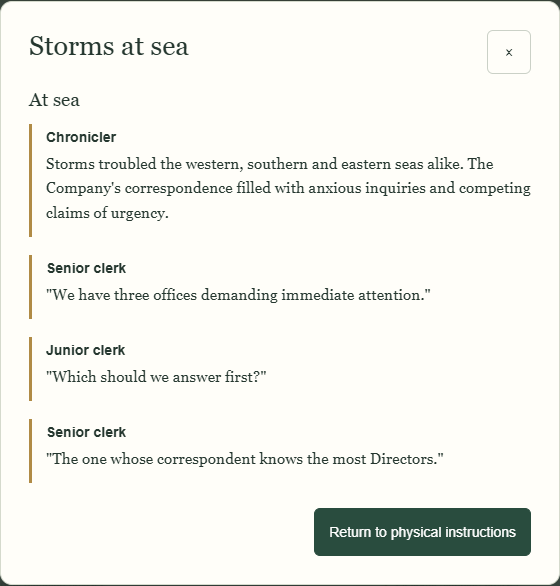
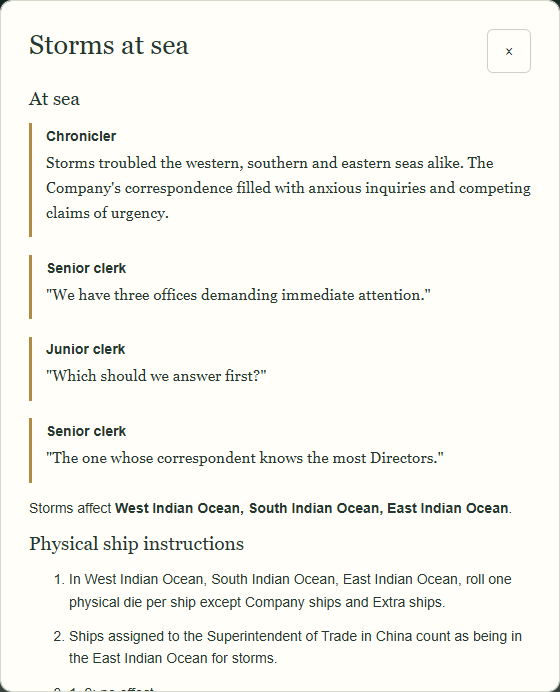
Document automatic 09E flows and verified resume behaviour

diff --git a/docs/narrative/collection09e-implementation.md b/docs/narrative/collection09e-implementation.md
@@ -10,7 +10,7 @@ Weather uses only the actual saved face. Tensions use its visible event count an
 
 F-09 requires Company control of every target and no Governor General law; no player officeholder/incumbency claim is made. F-03 and H-03 require an existing living regional ruler. These are contextual exclusions, not permanently withheld entries. Anonymous merchants, clerks and courtiers retain approved role labels and create no NPCs. No actual casualties, completed commerce or new biographies are inferred.
 
-## Presentation and persistence
+## Original presentation and persistence (superseded by the UX correction below)
 
 Weather and invasion scenes use optional **Read scene** buttons at the corresponding existing physical stage, opening one complete scrollable scene with **Return to physical instructions**. This preserves mandatory ship/defence reports and avoids another compulsory reading step. First-target invasion reading includes the announcement; later targets show only their current appraisal. The action review offers all selected invasion scenes, including Indian targets without a player defence prompt and France with no invasion. Tensions appear directly on the existing count-reveal page. Normal/quiet modes add no fictional pages; physical numbers and instructions retain their wording.
 
@@ -43,3 +43,17 @@ Implementation commit: `ba08a97735e47903eba6796d3844d9c0b157f066`. Documentation
 - **Navigation:** preserve a clear route between the automatically displayed scene and exact physical instructions, with **no extra read/acknowledgement button or redundant story-only confirmation**. The existing necessary physical completion/report input remains mandatory. Do not force story replay on reentry, reload, Back/Undo/Redo or returning from physical instructions: remember the local stage viewing state independently from the underlying selected scene, without altering the gameplay outcome or adding gameplay Undo frames.
 - **Pacing:** preserve one complete multi-speaker scene, not line-by-line popups. At the initial multi-target invasion beat, the announcement should not disappear behind the first target's strength reaction. Avoid two successive, unnecessary modal steps if existing one-page scene can combine the immediate announcement and current appraisal.
 - **Acceptance:** browser-test Narrative mode's automatic weather → ship instructions → tension reveal, calm-weather path, single/multi-target Foreign/France, no-target France, and saved-stage resume. Confirm Normal unchanged and no new click obligation. The correction is a focused UX task, not a rewrite of the already approved prose or authorization for character system work.
+
+
+## Automatic-scene correction delivered — 26 October 2026
+
+Implemented the approved correction from `06e903a`. The original optional-reading description above is historical and superseded. **No Read scene buttons remain.** Narrative scenes appear automatically as the first content on the existing complete scrollable resolution page, followed by physical instructions and the same mandatory report/control. This avoids a new narration-only Continue, acknowledgement or modal step. Weather therefore reads first, then the player scrolls naturally to the storm procedure and reports ship completion; calm retains its existing Continue. The already approved count/tensions page follows actual weather completion, never earlier.
+
+At the first invasion boundary, the announcement and current saved-force appraisal share the page before the existing defence report. Later targets show their new appraisal only; the announcement is not replayed. Where an Indian target needs no player defence, pending scenes appear automatically on the next existing physical-consequence/Elephant/review page. France's no-invasion N-01 is automatic on its existing review page, without a new step. No result is generated for the purpose of narration. Newly presented pages reset scroll to the start so earlier physical-page scrolling cannot hide the scene.
+
+Viewing position is separate from text selection: optional `narrative.weather.scenePresented` and protected `ui.stagedPresented` keys travel with saves, snapshots and pending progress. A bounded workspace-specific local presentation journal suppresses repeat delivery when Undo removes those markers; it is not campaign history or proof of attention. Reopening/resuming shows the pending physical procedure without automatically replaying the scene. Undo of a committed rolled invasion now retains its exact original `stagedScenes` and viewed keys in protected progress, rather than reselecting words. No gameplay Undo frames, RNG steps, incidents or memories are added by viewing. Normal and quiet mode preserve their controls and suppress new fiction as appropriate. All 81 entries and selector/cooldown logic are unchanged.
+
+**400 tests pass, 0 fail** (391 baseline + 9 presentation regressions). Expanded Collection 09E browser journeys pass regular/Debug at **1440×900** and **1024×768**, Chrome **156.0.8078.47**: all six faces, delayed counts, calm, single/multiple Foreign/France targets, N-01, Indian targets without defence input, quiet mode, exact pending reload/import/export/snapshots, committed Undo/Redo and no replay. Horizontal/vertical modal bounds and fresh-scene scroll position are checked. Existing weather and action-resolution browser suites also pass. See [revised short demonstration](collection09e-demo.md) and [verification](collection09e-verification.json).
+
+The bounded local journal is device-local and retains 256 recent presentation tokens; portable saved viewing markers remain authoritative on import. Manually clearing browser data and restoring an older snapshot without viewing markers can show its scene again. Existing archives preserve every selected word. Integrated pacing remains for user review. No hosted Site deployment.
+Automatic-scene implementation commit: `310f85f2997752701f22c0ca57551e0a1a8d6951`.

diff --git a/docs/narrative/collection09e-demo.md b/docs/narrative/collection09e-demo.md
@@ -2,9 +2,9 @@
 
 Generated with `node scripts/check-09e-browser.cjs` against an isolated local app. Synthetic campaign, existing cast, no personal save. The invasion is an explicitly **manually triggered test event**, using the real action resolver and valid reported defences. Test-controlled random results make this reproducible; prose is the approved catalogue, not generated writing.
 
-## Weather, then tensions
+## Revised automatic flow: weather, then tensions
 
-Actual saved initial face: **3**, storms in all three seas, one India event. Before the existing ship-resolution boundary the event count is concealed in the workspace and archive. The weather scene is available through **Read scene** beside unchanged physical ship instructions.
+Actual saved initial face: **3**, storms in all three seas, one India event. Before the existing ship-resolution boundary the event count is concealed in the workspace and archive. The weather scene appears **automatically first**, above unchanged physical ship instructions on the same scrollable page. There is no Read scene button or narration-only Continue; the player uses the existing **All ship rolls resolved** control.
 
 **09E-A-01**, evidence `{"face": 3}`
 
@@ -22,9 +22,9 @@ After reporting all ship rolls resolved, the count-reveal page shows **1 India e
 
 **Chronicler:** The season opened with fewer outward signs of disorder than some had feared. Experienced observers knew that a quiet court might still conceal an argument of considerable consequence.
 
-## Three actual invasion targets
+## Revised automatic flow: three actual invasion targets
 
-The test event targets Bombay → Madras → Bengal. Each raw strength is generated and saved at its own resolver boundary: **6, 3, 5** respectively. The physical UI retains the exact attack calculation and legal Army. This does not establish troop counts, casualties, identities or victory. The first optional scene view combines announcement and Bombay appraisal; subsequent views show only the current appraisal. The review page can show all four records together.
+The test event targets Bombay → Madras → Bengal. Each raw strength is generated and saved at its own resolver boundary: **6, 3, 5** respectively. The physical UI retains the exact attack calculation and legal Army. This does not establish troop counts, casualties, identities or victory. The first defence page automatically begins with announcement and Bombay appraisal; later targets automatically begin with their own new appraisal before the same required defence report. No separate narration step is added. All four records remain in the archive.
 
 **09E-F-08**, evidence `{"companyTargets": ["bombay", "madras", "bengal"], "courts": {"bengal": "ruler-bengal", "bombay": "ruler-bombay", "madras": "ruler-madras"}, "governorGeneral": false, "targets": ["bombay", "madras", "bengal"], "type": "foreign"}`
 
@@ -50,7 +50,7 @@ The test event targets Bombay → Madras → Bengal. Each raw strength is genera
 
 ## Persistence evidence and editorial limits
 
-Browser assertions compare every saved scene object and rendered word across close/reopen and reload, JSON export/import, snapshot restore and committed Undo/Redo. Reading/back navigation consumes no additional random values. The committed parent contains exactly four stage records and the original 23 cast identities. `selected-scenes.json` preserves the supporting contexts and exact words.
+Browser assertions compare every saved scene object and rendered word across close/reopen and reload, JSON export/import, snapshot restore and committed Undo/Redo. Scrolling between scene and physical instructions consumes no additional random values. Reopening/reloading resumes the physical page without replaying the already presented scene. The committed parent contains exactly four stage records and the original 23 cast identities. `selected-scenes.json` preserves the supporting contexts and exact words.
 
 An actual three-turn resolver test repeats the same weather family and verifies no immediate template repetition, retained history and exact save/load. All 81 alternatives are reachable across eligible campaign seeds. The sole approved no-invasion scene, N-01, necessarily repeats if that result recurs. Theme/rhythm penalties reduce adjacent joke repetition; they cannot guarantee literary variety in every campaign. These examples demonstrate integration, not final creative acceptance of selection and pacing.
 
@@ -59,3 +59,13 @@ An actual three-turn resolver test repeats the same weather family and verifies 
 ![Tensions on tablet](review/collection09e/tension-dialogue-tablet.png)
 
 ![Invasion scene on desktop](review/collection09e/invasion-dialogue-desktop.png)
+
+## Click/pacing demonstration
+
+- **Storm:** Begin Events in India → automatic full weather scene → scroll to physical ship instructions → existing All ship rolls resolved → automatic count/tensions page → existing Continue. Calm uses its existing Continue instead of a ship report.
+- **Company defence:** actual target face and first raw strength saved → automatic announcement + appraisal above the existing physical defence form → Report defence and required consequences → next saved target's appraisal above its required form. No narration-only click.
+- **Indian targets / France with no invasion:** scenes appear on existing physical/review pages; the application does not invent a defence report merely to make space for writing.
+- **Close/reload or Undo/Redo:** selected words stay identical; already presented scenes do not replay automatically. Physical reports, Elephant movements and confirmation remain mandatory.
+- **Normal / quiet:** no new fictional scene. Existing dice/manual controls and physical procedures are retained.
+
+The browser demonstration uses the same approved text and saved supporting evidence above. Screenshots now show automatic scene-first pages, not optional reading dialogs.

diff --git a/docs/current-status.md b/docs/current-status.md
@@ -235,3 +235,11 @@ Weather/invasion use optional complete **Read scene** views beside existing phys
 **391 tests pass, 0 fail**. Dedicated regular/debug browser checks pass at **1440×900** and **1024×768**, Chrome **156.0.8078.47**; existing resolution, M2, outlook, advice, counsel, Operations and trade checks pass. One combined-run counsel timeout passed on an independent full rerun. [Implementation and limitations](narrative/collection09e-implementation.md), [small weather/tension and multi-target demonstration](narrative/collection09e-demo.md), [verification](narrative/collection09e-verification.json). All entries selectable in supported contexts; no wording rewritten. N-01 has no repetition alternative. Integrated pacing remains for user/ChatGPT review. No hosted Site deployment.
 
 Implementation commit: `ba08a97735e47903eba6796d3844d9c0b157f066`.
+
+
+## Collection 09E automatic-scene UX correction — 26 October 2026
+
+Implemented the approved `06e903a` correction. The prior optional Read scene UX is superseded: weather, actual invasion announcements and saved per-target force appraisals now appear automatically first on their existing scrollable physical-resolution pages. The same ship/defence/consequence/review controls follow; no narration-only Continue or acknowledgement. Tensions still appear only after weather completion; France N-01 is automatic on the existing review page. Indian targets without defence input show scenes on existing physical pages. Normal/quiet unchanged; all 81 exact texts and selectors unchanged.
+
+Separate saved viewing markers and a bounded local workspace journal prevent automatic replay on reopening/reload/Undo/Redo without adding gameplay Undo frames or RNG. Committed invasion Undo preserves original selected words in protected progress. **400 tests pass, 0 fail**; expanded regular/Debug browser checks pass at **1440×900** and **1024×768**, Chrome **156.0.8078.47**, including single/multiple Foreign/France, quiet, no-defence targets, delayed count, persistence, mandatory controls and modal scroll bounds. Existing weather/resolution browser suites pass. [Correction report](narrative/collection09e-implementation.md#automatic-scene-correction-delivered--26-october-2026), [short revised demonstration](narrative/collection09e-demo.md), [verification](narrative/collection09e-verification.json). No new character systems, migrations or hosted Site deployment.
+Automatic-scene implementation: `310f85f2997752701f22c0ca57551e0a1a8d6951`.

diff --git a/README.md b/README.md
@@ -112,4 +112,4 @@ See the [implementation and writing gaps](docs/narrative/collection09d2-weather-
 
 ## Collection 09E dialogue
 
-All 81 approved weather, tension and invasion scenes now use actual saved facts and stable saved wording. Weather/invasion have optional full-scene reading alongside physical instructions; tensions appear only at count reveal. No new NPCs or gameplay changes. See the [implementation](docs/narrative/collection09e-implementation.md), [small demonstration](docs/narrative/collection09e-demo.md) and [verification](docs/narrative/collection09e-verification.json). No hosted Site deployment.
+All 81 approved weather, tension and invasion scenes now use actual saved facts and stable saved wording. Weather/invasion scenes appear automatically before the existing physical instructions and report controls; tensions appear only at count reveal. Already presented scenes do not replay on resume. No new NPCs or gameplay changes. See the [implementation](docs/narrative/collection09e-implementation.md), [small demonstration](docs/narrative/collection09e-demo.md) and [verification](docs/narrative/collection09e-verification.json). No hosted Site deployment.
